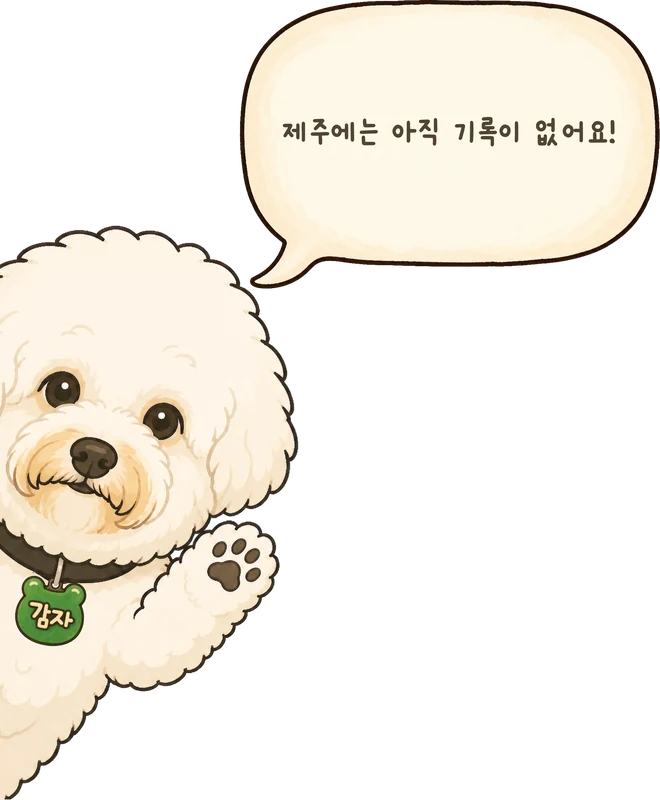
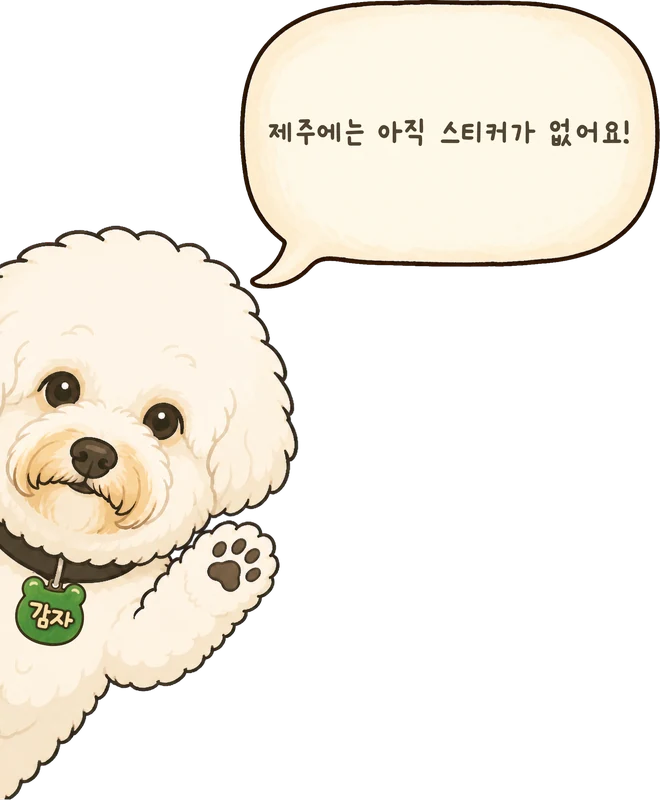
새 감자 그림 여섯 장 반영 + 문구가 「기록이」→「스티커가」 (js v633 · 그림 v3)
사용자님이 여섯 장을 다시 내보내셨다.
- 지역 다섯: 「…에는 아직 기록이 없어요」 → 「…에는 아직 스티커가 없어요」
- 전체: 두 줄에 크기 차이가 생겼다(첫 줄이 크고 둘째 줄이 작다)
- 지역 다섯의 글씨 줄이 y 611~764 안에서 맞는다(전에는 제각각이었다)

🔴 alt 도 같이 고쳤다 — alt 는 **그림에 그려진 문구를 그대로** 적는 자리다.
   그림을 다시 그려 문구가 달라지면 여기도 반드시 같이 고칠 것. 자동이 아니다.
   글씨만 나오는 갈래(그림 없는 새 지역)의 문구도 같은 말로 맞췄다.

🔴 그림 판 번호를 2 → 3 으로 올렸다. 파일 이름이 그대로라 안 올리면 폰에 옛 그림이 남는다.

확인: 여섯 탭 전부 v=3 으로 새로 뜬다 · alt 가 그림 문구와 같다 · 자리는 그대로
(벽에 딱 0px · 아래 14px) · 320px 넘침 없음.

Changed region(s): [[0.3939, 0.125, 0.9697, 0.1875]]

diff --git a/script.js b/script.js
@@ -3493,7 +3493,7 @@
   const GAMJA_REGION = { 서울: 'seoul', 경기: 'gyeonggi', 부산: 'busan', 대구: 'daegu', 제주: 'jeju' };
   // 🔴 그림을 새로 그려 넣으면 **이 숫자를 올린다.** 파일 이름이 그대로라 안 올리면 폰에
   //    옛 그림이 캐시로 남는다(css·js 의 index.html `?v=` 와 같은 이유·같은 방식이다).
-  const GAMJA_V = 2;
+  const GAMJA_V = 3;
   const gamjaSrc = (name) => 'assets/mascot/' + name + '.webp?v=' + GAMJA_V;
   const gamjaSlot = (src, alt) =>
     '<div class="stamp-slot stamp-empty-slot"><div class="stamp-slot-empty">'
@@ -3627,10 +3627,13 @@
         empty.innerHTML = (key === '전체')
           ? gamjaSlot(gamjaSrc('gamja-bubble'),
                       '아직 스티커가 없어요. 기록하기로 첫 방문을 남겨보세요')
+          // 🔴 alt 는 **그림에 그려진 문구를 그대로** 적는다. 2026-08-05 에 그림 문구가
+          //    「…에는 아직 기록이 없어요」→「…에는 아직 스티커가 없어요」로 바뀌어 같이 고쳤다.
+          //    그림을 다시 그려 문구가 달라지면 여기도 반드시 같이 고칠 것 — 자동이 아니다.
           : (GAMJA_REGION[key]
               ? gamjaSlot(gamjaSrc('gamja-bubble-' + GAMJA_REGION[key]),
-                          key + '에는 아직 기록이 없어요')
-              : '<p class="stamp-empty-text">' + key + '에는 아직 기록이 없어요</p>');
+                          key + '에는 아직 스티커가 없어요')
+              : '<p class="stamp-empty-text">' + key + '에는 아직 스티커가 없어요</p>');
         stampEmptyCache.set(key, empty);
       }
       grid.replaceChildren(empty);

diff --git a/index.html b/index.html
@@ -1172,7 +1172,7 @@
 
 <!-- 메뉴 데이터 — `node .claude/make_menu_data.mjs`가 메뉴.md 에서 자동 생성한다. 손으로 고치지 말 것 -->
 <script src="menu-data.js?v=5"></script>
-<script src="script.js?v=631"></script>
+<script src="script.js?v=633"></script>
 
 <!-- Cloudflare Web Analytics --><script type='module' src='https://static.cloudflareinsights.com/beacon.min.js' data-cf-beacon='{"token": "d7c0ac8f66544156bca23d2c7f84c961"}'></script><!-- End Cloudflare Web Analytics -->
 </body>
